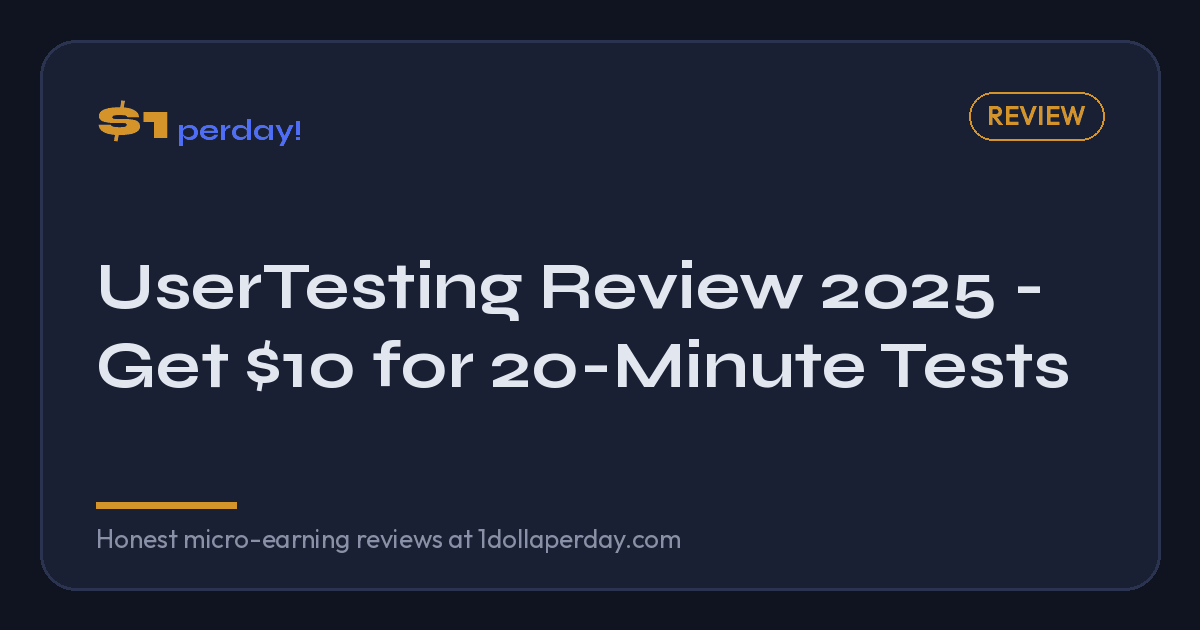
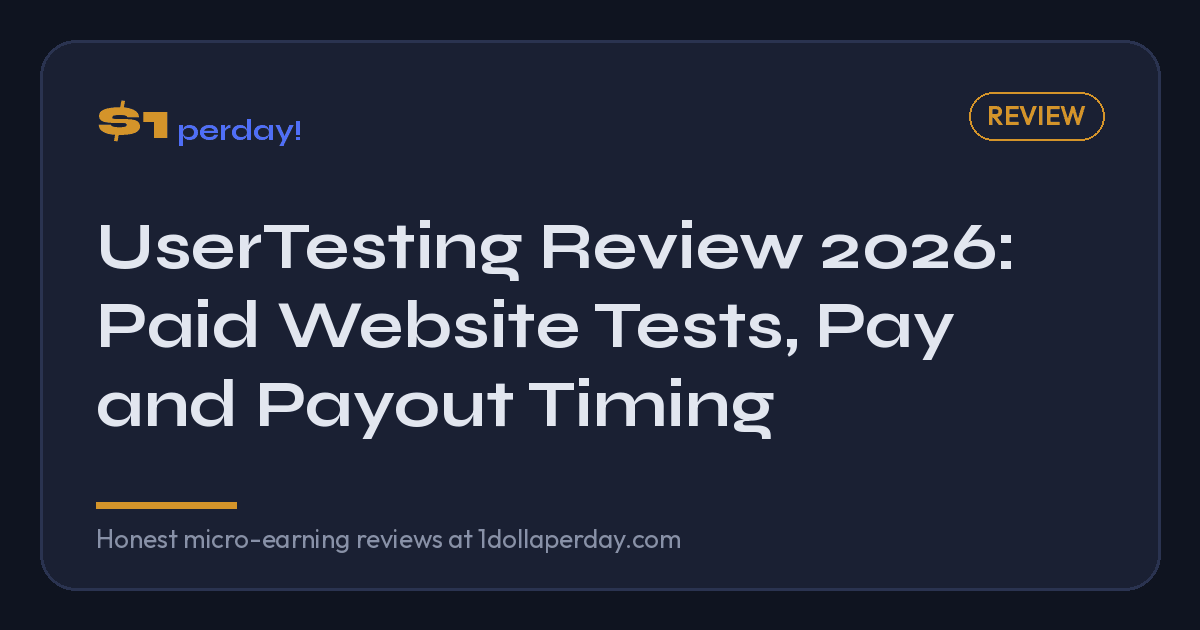
Correct UserTesting review: 14-day PayPal payout, rewards vary per test, ownership history, label earnings table as illustration

Changed region(s): [[0.0617, 0.3317, 0.8942, 0.6937]]

diff --git a/reviews/usertesting.html b/reviews/usertesting.html
@@ -19,13 +19,13 @@
     <meta charset="UTF-8">
     <meta name="viewport" content="width=device-width, initial-scale=1.0">
 
-    <title>UserTesting Review 2025 - Get $10 for 20-Minute Tests | $1perday!</title>
-    <meta name="description" content="Honest UserTesting review 2025. Earn $10+ per test reviewing websites and apps. Is it legit? How to qualify for tests and maximize your earnings.">
+    <title>UserTesting Review 2026: Paid Website Tests, Pay and Payout Timing | $1perday!</title>
+    <meta name="description" content="UserTesting pays per website and app test (typically about $10 for a 20-minute test), via PayPal, usually 14 days later. How to qualify and what to expect.">
     <meta name="keywords" content="UserTesting review, UserTesting legit, get paid to test websites, UserTesting 2025, UX testing jobs, website testing">
 
     <link rel="canonical" href="https://1dollaperday.com/reviews/usertesting">
 
-    <meta property="og:title" content="UserTesting Review 2025 - Get $10 for 20-Minute Tests">
+    <meta property="og:title" content="UserTesting Review 2026: Paid Website Tests, Pay and Payout Timing">
     <meta property="og:description" content="Complete honest review of UserTesting - get paid to test websites and apps from major companies.">
     <meta property="og:type" content="article">
     <meta property="og:url" content="https://1dollaperday.com/reviews/usertesting">
@@ -33,9 +33,9 @@
     <meta property="og:image" content="https://1dollaperday.com/assets/og/reviews--usertesting.png">
     <meta property="og:image:width" content="1200">
     <meta property="og:image:height" content="630">
-    <meta property="og:image:alt" content="UserTesting Review 2025 - Get $10 for 20-Minute Tests">
+    <meta property="og:image:alt" content="UserTesting Review 2026: Paid Website Tests, Pay and Payout Timing">
     <meta name="twitter:card" content="summary_large_image">
-    <meta name="twitter:title" content="UserTesting Review 2025 - Get $10 for 20-Minute Tests">
+    <meta name="twitter:title" content="UserTesting Review 2026: Paid Website Tests, Pay and Payout Timing">
     <meta name="twitter:description" content="Complete honest review of UserTesting - get paid to test websites and apps from major companies.">
     <meta name="twitter:image" content="https://1dollaperday.com/assets/og/reviews--usertesting.png">
 
@@ -65,9 +65,9 @@
             "bestRating": "10",
             "worstRating": "1"
         },
-        "reviewBody": "UserTesting pays $10+ for 20-minute website and app tests. The pay rate is excellent ($30/hour), but test availability is limited. A great supplement to other earning methods for those who qualify.",
+        "reviewBody": "UserTesting pays per test, typically about $10 for a 20-minute website or app test, via PayPal. Test availability is limited. A great supplement to other earning methods for those who qualify.",
         "datePublished": "2025-01-01",
-        "dateModified": "2026-02-03",
+        "dateModified": "2026-10-23",
         "publisher": {"@type": "Organization", "name": "$1perday!"}
     }
     </script>
@@ -138,7 +138,7 @@
                 
                 <header class="review-header">
                     <div class="review-title-section">
-                        <span class="last-updated">Updated January 2025</span>
+                        <span class="last-updated">Updated October 2026</span>
                         <h1>UserTesting Review</h1>
                         <p class="article-meta">Category: Website Testing / UX Research</p>
                     </div>
@@ -153,7 +153,7 @@
 
                 <div class="article-content">
                     <div class="quick-answer" id="quick-answer">
-                        <p>UserTesting is a legitimate platform paying $10+ per 20-minute usability test. It requires passing a sample test to join. Once approved, tests arrive regularly and pay instantly via PayPal. At $30+/hour for active testing sessions, it's one of the highest-value platforms in the micro-earning space. Rating: 9.0/10.</p>
+                        <p>UserTesting is a legitimate platform paying $10+ per 20-minute usability test. It requires passing a sample test to join. Once approved, tests arrive irregularly and are paid via PayPal, usually 14 days after completion. At $30+/hour for active testing sessions, it's one of the highest-value platforms in the micro-earning space. Rating: 9.0/10.</p>
                     </div>
 
                     
@@ -166,7 +166,7 @@
                             </div>
                             <div class="quick-fact">
                                 <span class="quick-fact-label">Pay Per Test</span>
-                                <span class="quick-fact-value">$10 (20 min) / $30-120 (live)</span>
+                                <span class="quick-fact-value">Varies by test (about $10 for 20 min)</span>
                             </div>
                             <div class="quick-fact">
                                 <span class="quick-fact-label">Payment Method</span>
@@ -199,7 +199,7 @@
 
                         <p>UserTesting is a user experience research platform that connects companies with real people who test their websites, apps, and prototypes. Major brands like Apple, Facebook, Adobe, and Microsoft use it to get genuine user feedback before launching products. As a tester, you browse their sites, complete tasks, and speak your thoughts aloud while screen recording.</p>
 
-                        <p>Founded in 2007, UserTesting is now a publicly traded company (acquired by Thoma Bravo in 2022 for $1.3 billion). They're the industry leader in this space, which means they have the most tests available and the most established payment system. If you're articulate and can provide thoughtful feedback, this is one of the best-paying side gigs out there.</p>
+                        <p>Founded in 2007, UserTesting was publicly traded until Thoma Bravo took it private in 2023 in a deal worth about $1.3 billion. They're the industry leader in this space, which means they have the most tests available and the most established payment system. If you're articulate and can provide thoughtful feedback, this is one of the best-paying side gigs out there.</p>
                     </section>
 
                     <div class="ad-placeholder banner">
@@ -221,7 +221,7 @@
                         <h3>Types of Tests</h3>
                         <ul>
                             <li><strong>Standard Tests ($10):</strong> 15-20 minutes. Browse a website/app, complete tasks, speak your thoughts aloud. Most common type.</li>
-                            <li><strong>Live Conversations ($30-120):</strong> 30-60 minute video calls with researchers. Higher pay, requires scheduling.</li>
+                            <li><strong>Live Conversations (higher pay):</strong> scheduled video calls with a UserTesting customer. UserTesting pays extra for these because they take longer; the amount is shown before you accept.</li>
                             <li><strong>Mobile Tests ($10):</strong> Test apps on your smartphone. Same format as standard tests.</li>
                             <li><strong>Prototype Tests ($10):</strong> Test unreleased features or designs. Often interesting stuff.</li>
                         </ul>
@@ -233,15 +233,15 @@
 
                         <h3>Payment</h3>
                         <ul>
-                            <li><strong>Standard tests:</strong> $10 via PayPal, 7 days after test completion</li>
-                            <li><strong>Live conversations:</strong> $30-120 via PayPal, 7 days after session</li>
-                            <li><strong>No minimum:</strong> Get paid for every completed test</li>
+                            <li><strong>Standard tests:</strong> paid via PayPal, usually 14 days after test completion</li>
+                            <li><strong>Live conversations:</strong> higher reward, also via PayPal</li>
+                            <li><strong>PayPal only:</strong> UserTesting has no other payout method</li>
                         </ul>
                     </section>
 
                     <section>
                         <h2>Realistic Earnings</h2>
-                        <p>The pay rate is excellent - $10 for 20 minutes is $30/hour. The challenge is getting enough tests.</p>
+                        <p>Reward amounts vary by test and are shown in your dashboard before you start. A typical 20-minute test pays about $10, roughly $30/hour while you are actually testing. The challenge is getting enough tests. The table below is an illustration at that rate, not a promise: UserTesting publishes no average.</p>
 
                         <table>
                             <thead>
@@ -302,7 +302,7 @@
                                     <li>See products before they launch</li>
                                     <li>No minimum payout</li>
                                     <li>PayPal payment (reliable)</li>
-                                    <li>Live conversations pay $30-120</li>
+                                    <li>Live conversations pay more</li>
                                     <li>Work from anywhere</li>
                                     <li>No special skills required</li>
                                     <li>Flexible - test when you want</li>
@@ -317,7 +317,7 @@
                                     <li>Need quiet space to record</li>
                                     <li>Screener questions can disqualify you</li>
                                     <li>Rating system can be harsh</li>
-                                    <li>7-day payment delay</li>
+                                    <li>Payment usually takes 14 days</li>
                                     <li>Need decent microphone</li>
                                     <li>Can't predict income</li>
                                 </ul>
@@ -364,7 +364,7 @@
                             </ul>
                         </div>
 
-                        <p>UserTesting is as legitimate as it gets. They've been paying testers for nearly two decades, major corporations rely on their platform, and they were acquired for over a billion dollars. Payment arrives reliably via PayPal, 7 days after each completed test.</p>
+                        <p>UserTesting is as legitimate as it gets. They've been paying testers for nearly two decades, major corporations rely on their platform, and they were acquired for over a billion dollars. Payment arrives via PayPal, usually 14 days after each completed test.</p>
                     </section>
 
                     <section>
@@ -409,7 +409,7 @@
                                     </tr>
                                     <tr>
                                         <td>Live Sessions</td>
-                                        <td><strong>Yes ($30-120)</strong></td>
+                                        <td><strong>Yes (higher pay)</strong></td>
                                         <td>No</td>
                                         <td>Limited</td>
                                     </tr>
@@ -486,6 +486,10 @@
 
             <aside class="sidebar">
                 <div class="ad-placeholder sidebar"></div>
+                <div class="sidebar-widget">
+                    <h3>Sources</h3>
+                    <p class="text-small">Payout method and timing checked against UserTesting's <a href="https://www.usertesting.com/get-paid-to-test" target="_blank" rel="noopener nofollow">Get Paid to Test</a> page on 23 October 2026.</p>
+                </div>
                 <div class="sidebar-widget">
                     <h3>In This Review</h3>
                     <ul>

diff --git a/reviews/index.html b/reviews/index.html
@@ -562,9 +562,9 @@
                                     <h3><a href="usertesting">UserTesting</a></h3>
                                     <span class="rating-badge recommended">Highly Recommended</span>
                                 </div>
-                                <p class="review-card-summary">Get paid $10+ for 20-minute website and app tests. Effectively $30/hour pay rate. Limited test availability but excellent when available.</p>
+                                <p class="review-card-summary">Paid website and app tests, typically about $10 for 20 minutes. PayPal only, usually 14 days after the test. Limited availability.</p>
                                 <div class="review-card-meta">
-                                    <span>Pay: $10+ per test</span>
+                                    <span>Pay: varies (about $10/test)</span>
                                     <span>Payment: PayPal</span>
                                 </div>
                                 <a href="usertesting" class="review-card-link">Read Full Review &rarr;</a>
